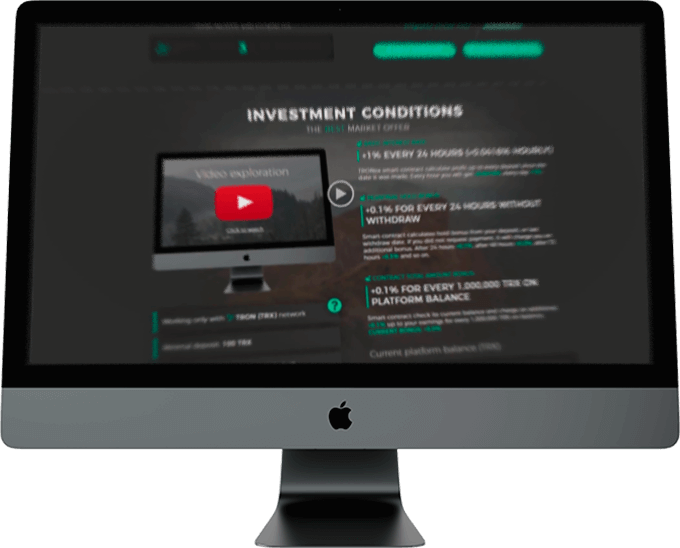
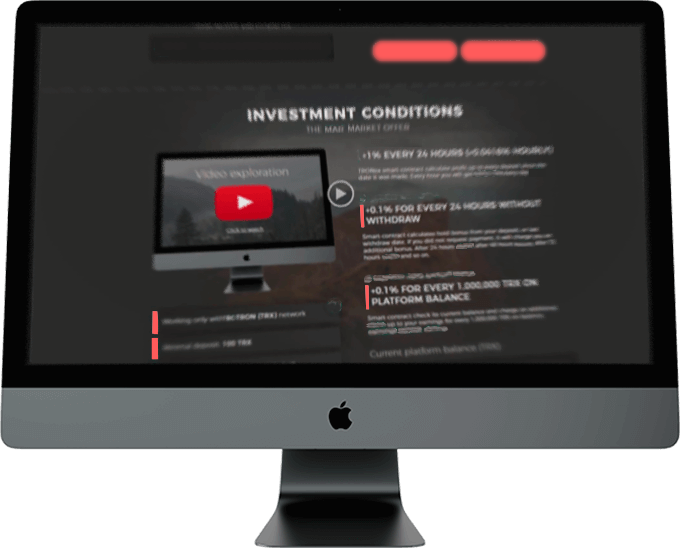
init

diff --git a/index.html b/index.html
@@ -190,9 +190,9 @@
                     <div class="macblock">
                         <div class="macback">
                             <a href="https://youtu.be/KUfBQZlpLRs" class="macbackwrap" target="_blank">
-                                <span class="macblockdesc">视频探索</span>
-                                <img src="images/play.png?v=1" alt="">
-                                <u>按钮看</u>
+                                <!--<span class="macblockdesc">视频探索</span>-->
+                                <!--<img src="images/play.png?v=1" alt="">-->
+                                <!--<u>按钮看</u>-->
                             </a>
                         </div>
                         <div class="macblockline" data-scroll="toggle(.fromLeftIn, .fromLeftOut)">

diff --git a/en/index.html b/en/index.html
@@ -189,9 +189,9 @@
                 <div class="macblock">
                     <div class="macback">
                         <a href="https://youtu.be/KUfBQZlpLRs" class="macbackwrap" target="_blank">
-                            <span class="macblockdesc">Video exploration</span>
-                            <img src="../images/play.png" alt>
-                            <u>Click to watch</u>
+                            <!--<span class="macblockdesc">Video exploration</span>-->
+                            <!--<img src="../images/play.png" alt>-->
+                            <!--<u>Click to watch</u>-->
                         </a>
                     </div>
                     <div class="macblockline" data-scroll="toggle(.fromLeftIn, .fromLeftOut)">
